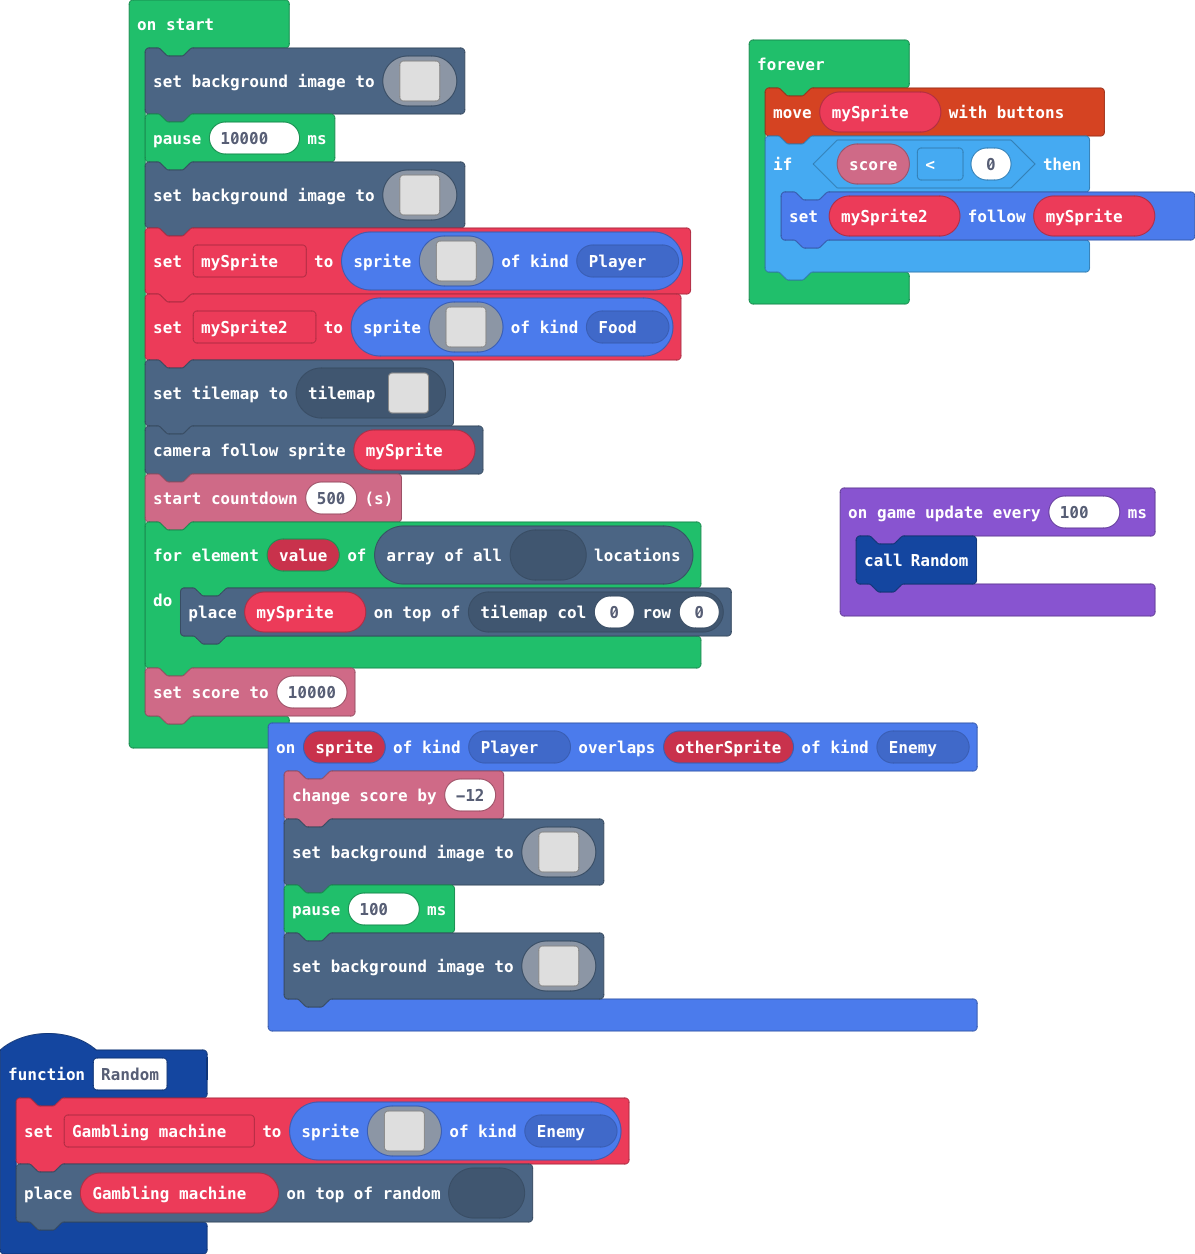
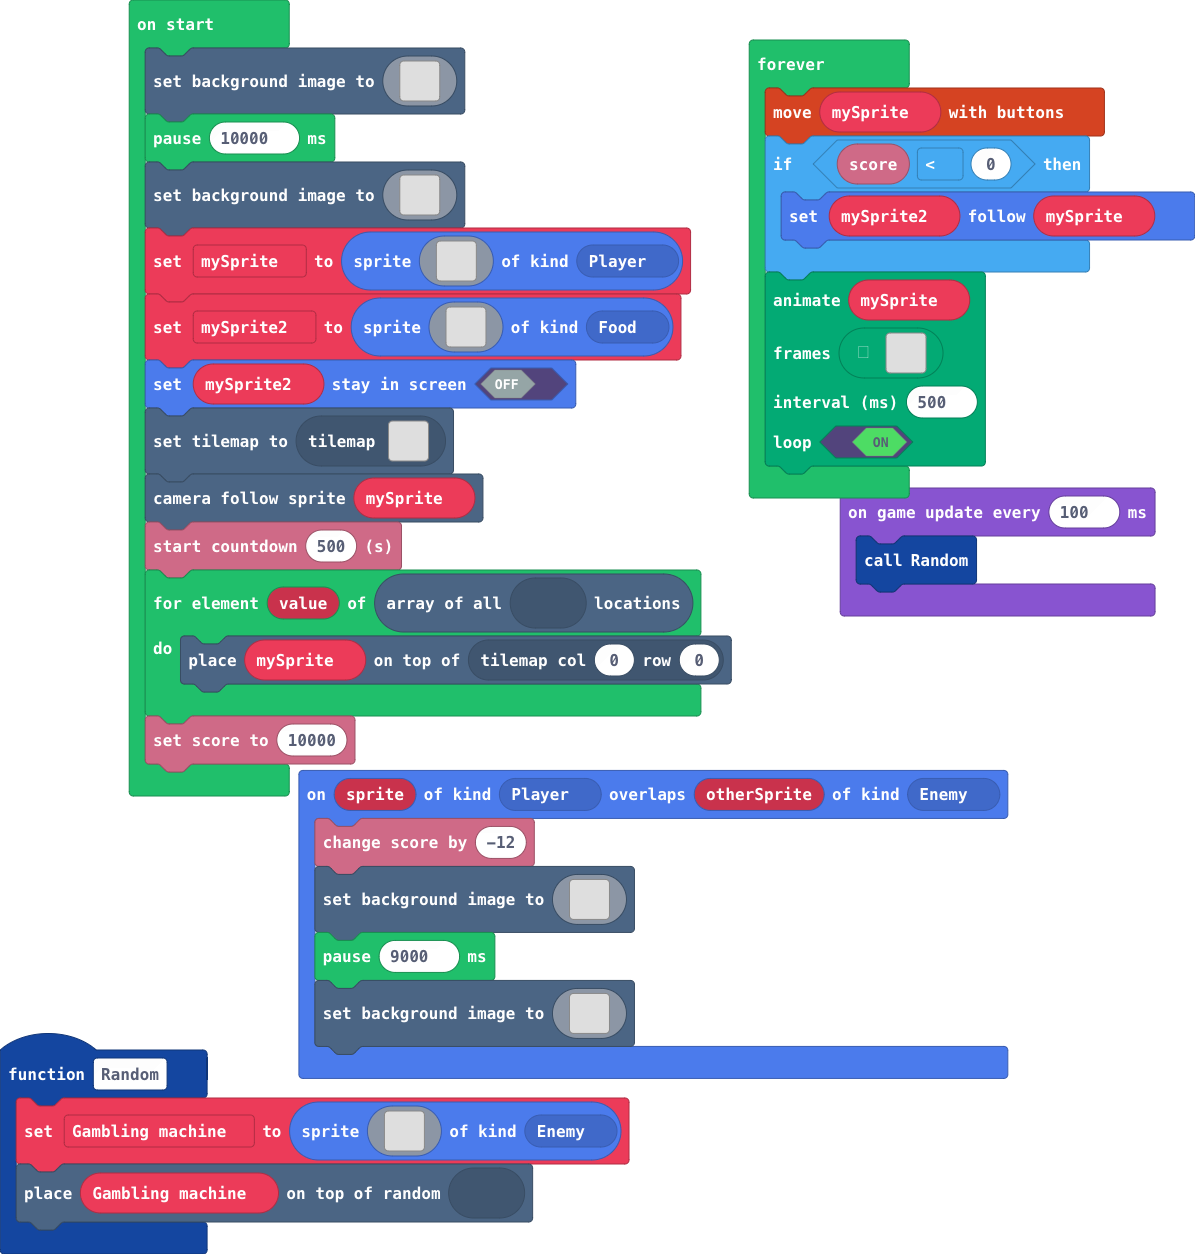
Update main.blocks, main.ts

Changed region(s): [[0.0929, 0.2799, 0.8669, 0.8708], [0.6192, 0.2177, 0.836, 0.4043]]

diff --git a/main.ts b/main.ts
@@ -39,7 +39,7 @@ sprites.onOverlap(SpriteKind.Player, SpriteKind.Enemy, function (sprite, otherSp
         4 e e e 2 e e 2 2 2 2 2 2 2 2 4 
         4 e 2 e e e 2 2 2 2 2 2 2 2 2 4 
         `)
-    pause(100)
+    pause(9000)
     scene.setBackgroundImage(img`
[2 lines of base64/hex data omitted]
@@ -445,6 +445,7 @@ let mySprite2 = sprites.create(img`
     . . c b d d d d d 5 5 5 b b . . 
     . . . c c c c c c c c b b . . . 
     `, SpriteKind.Food)
+mySprite2.setStayInScreen(false)
 tiles.setCurrentTilemap(tilemap`level2`)
 scene.cameraFollowSprite(mySprite)
 info.startCountdown(500)
@@ -457,6 +458,80 @@ forever(function () {
     if (info.score() < 0) {
         mySprite2.follow(mySprite)
     }
+    animation.runImageAnimation(
+    mySprite,
+    [img`
+        . . . . f f f f f f . . . . . . 
+        . . . f 2 f e e e e f f . . . . 
+        . . f 2 2 2 f e e e e f f . . . 
+        . . f e e e e f f e e e f . . . 
+        . f e 2 2 2 2 e e f f f f . . . 
+        . f 2 e f f f f 2 2 2 e f . . . 
+        . f f f e e e f f f f f f f . . 
+        . f e e 4 4 f b e 4 4 e f f . . 
+        . . f e d d f 1 4 d 4 e e f . . 
+        . . . f d d d d 4 e e e f . . . 
+        . . . f e 4 4 4 e e f f . . . . 
+        . . . f 2 2 2 e d d 4 . . . . . 
+        . . . f 2 2 2 e d d e . . . . . 
+        . . . f 5 5 4 f e e f . . . . . 
+        . . . . f f f f f f . . . . . . 
+        . . . . . . f f f . . . . . . . 
+        `,img`
+        . . . . . . . . . . . . . . . . 
+        . . . . f f f f f f . . . . . . 
+        . . . f 2 f e e e e f f . . . . 
+        . . f 2 2 2 f e e e e f f . . . 
+        . . f e e e e f f e e e f . . . 
+        . f e 2 2 2 2 e e f f f f . . . 
+        . f 2 e f f f f 2 2 2 e f . . . 
+        . f f f e e e f f f f f f f . . 
+        . f e e 4 4 f b e 4 4 e f f . . 
+        . . f e d d f 1 4 d 4 e e f . . 
+        . . . f d d d e e e e e f . . . 
+        . . . f e 4 e d d 4 f . . . . . 
+        . . . f 2 2 e d d e f . . . . . 
+        . . f f 5 5 f e e f f f . . . . 
+        . . f f f f f f f f f f . . . . 
+        . . . f f f . . . f f . . . . . 
+        `,img`
+        . . . . f f f f f f . . . . . . 
+        . . . f 2 f e e e e f f . . . . 
+        . . f 2 2 2 f e e e e f f . . . 
+        . . f e e e e f f e e e f . . . 
+        . f e 2 2 2 2 e e f f f f . . . 
+        . f 2 e f f f f 2 2 2 e f . . . 
+        . f f f e e e f f f f f f f . . 
+        . f e e 4 4 f b e 4 4 e f f . . 
+        . . f e d d f 1 4 d 4 e e f . . 
+        . . . f d d d d 4 e e e f . . . 
+        . . . f e 4 4 4 e e f f . . . . 
+        . . . f 2 2 2 e d d 4 . . . . . 
+        . . . f 2 2 2 e d d e . . . . . 
+        . . . f 5 5 4 f e e f . . . . . 
+        . . . . f f f f f f . . . . . . 
+        . . . . . . f f f . . . . . . . 
+        `,img`
+        . . . . . . . . . . . . . . . . 
+        . . . . f f f f f f . . . . . . 
+        . . . f 2 f e e e e f f . . . . 
+        . . f 2 2 2 f e e e e f f . . . 
+        . . f e e e e f f e e e f . . . 
+        . f e 2 2 2 2 e e f f f f . . . 
+        . f 2 e f f f f 2 2 2 e f . . . 
+        . f f f e e e f f f f f f f . . 
+        . f e e 4 4 f b e 4 4 e f f . . 
+        . . f e d d f 1 4 d 4 e e f . . 
+        . . . f d d d d 4 e e e f . . . 
+        . . . f e 4 4 4 e d d 4 . . . . 
+        . . . f 2 2 2 2 e d d e . . . . 
+        . . f f 5 5 4 4 f e e f . . . . 
+        . . f f f f f f f f f f . . . . 
+        . . . f f f . . . f f . . . . . 
+        `],
+    500,
+    true
+    )
 })
 game.onUpdateInterval(100, function () {
     Random()
